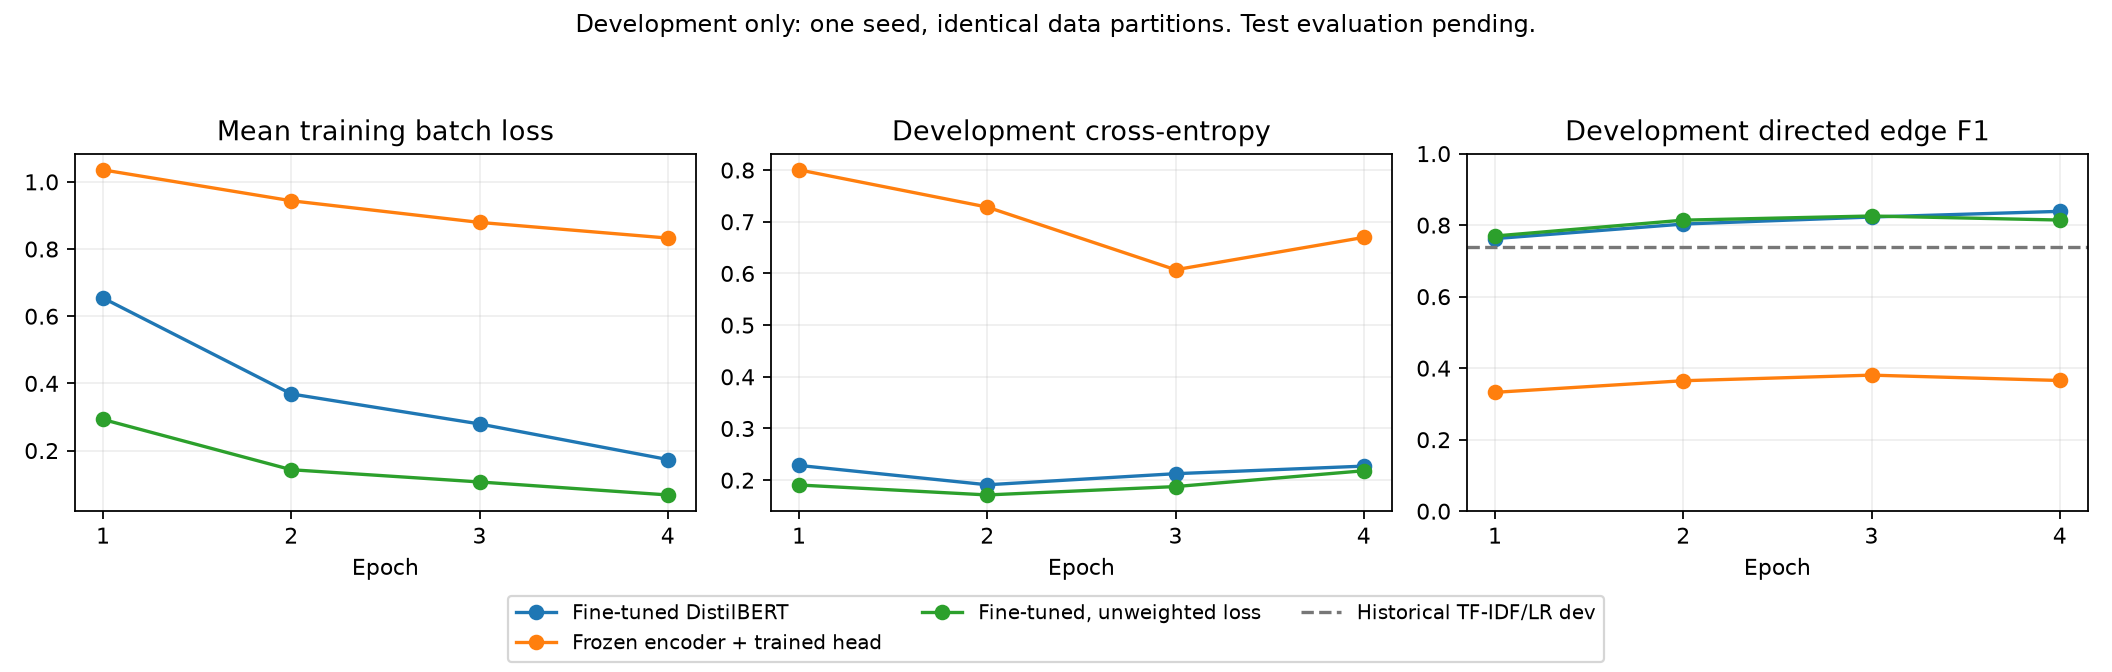
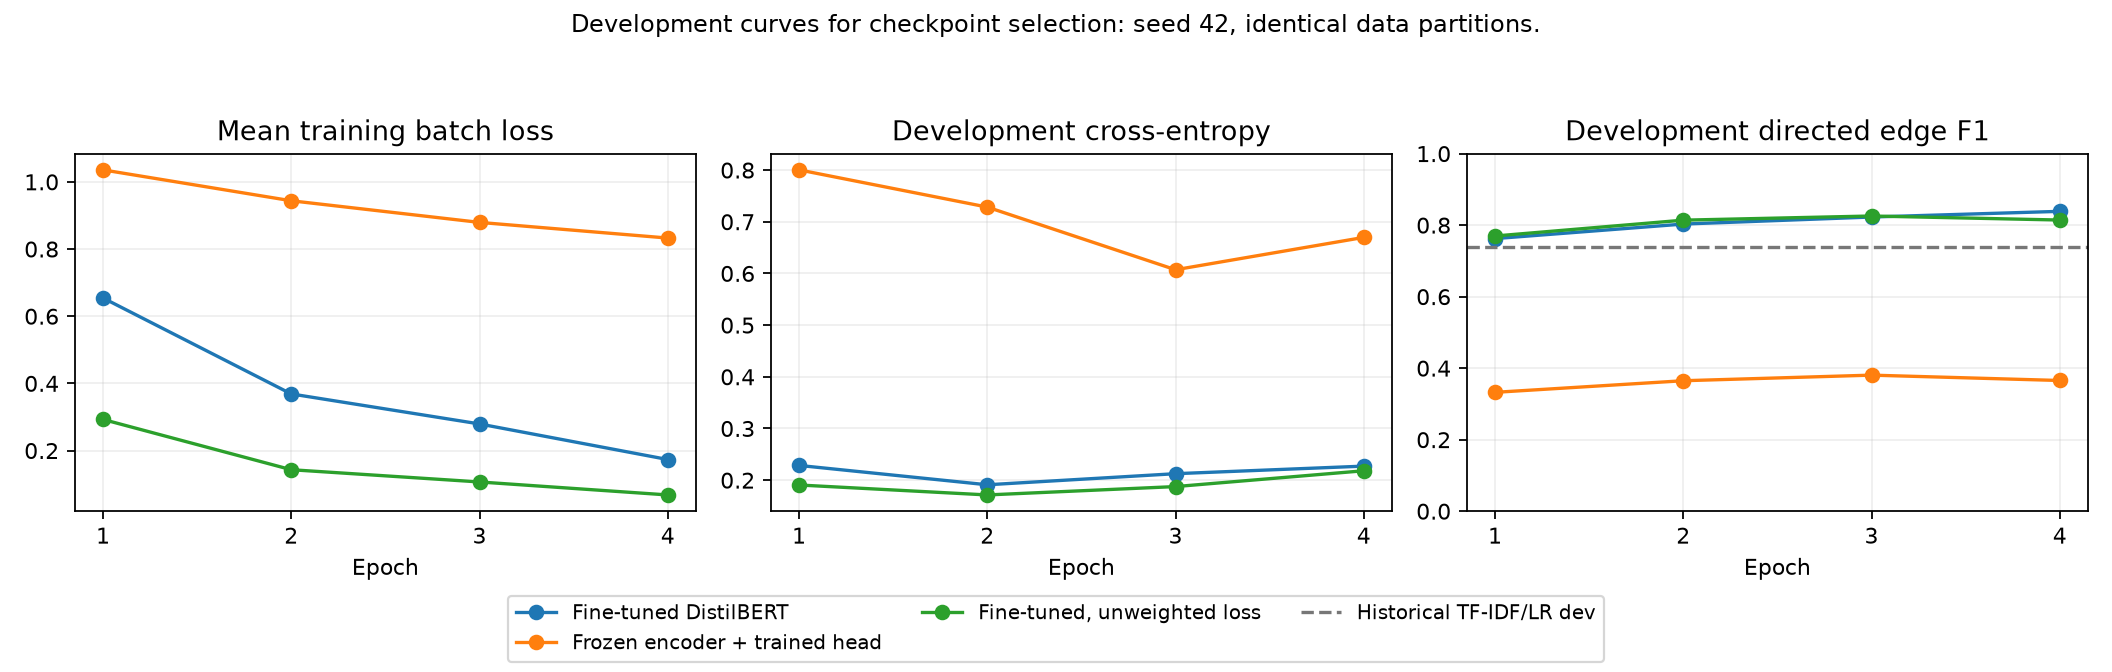
docs(experiments): label completed development curves for the final comparison

Changed region(s): [[0.25, 0.0, 0.75, 0.0625]]

diff --git a/scripts/summarize_neural_development.py b/scripts/summarize_neural_development.py
@@ -68,7 +68,7 @@ def main():
     axes[2].set_ylim(0,1)
     handles, names = axes[2].get_legend_handles_labels()
     fig.legend(handles, names, loc='lower center', ncol=3, fontsize=9)
-    fig.suptitle('Development only: one seed, identical data partitions. Test evaluation pending.', fontsize=11)
+    fig.suptitle('Development curves for checkpoint selection: seed 42, identical data partitions.', fontsize=11)
     fig.tight_layout(rect=(0,.1,1,.93))
     fig.savefig(args.output / 'learning_curves.png', dpi=160)
     plt.close(fig)
